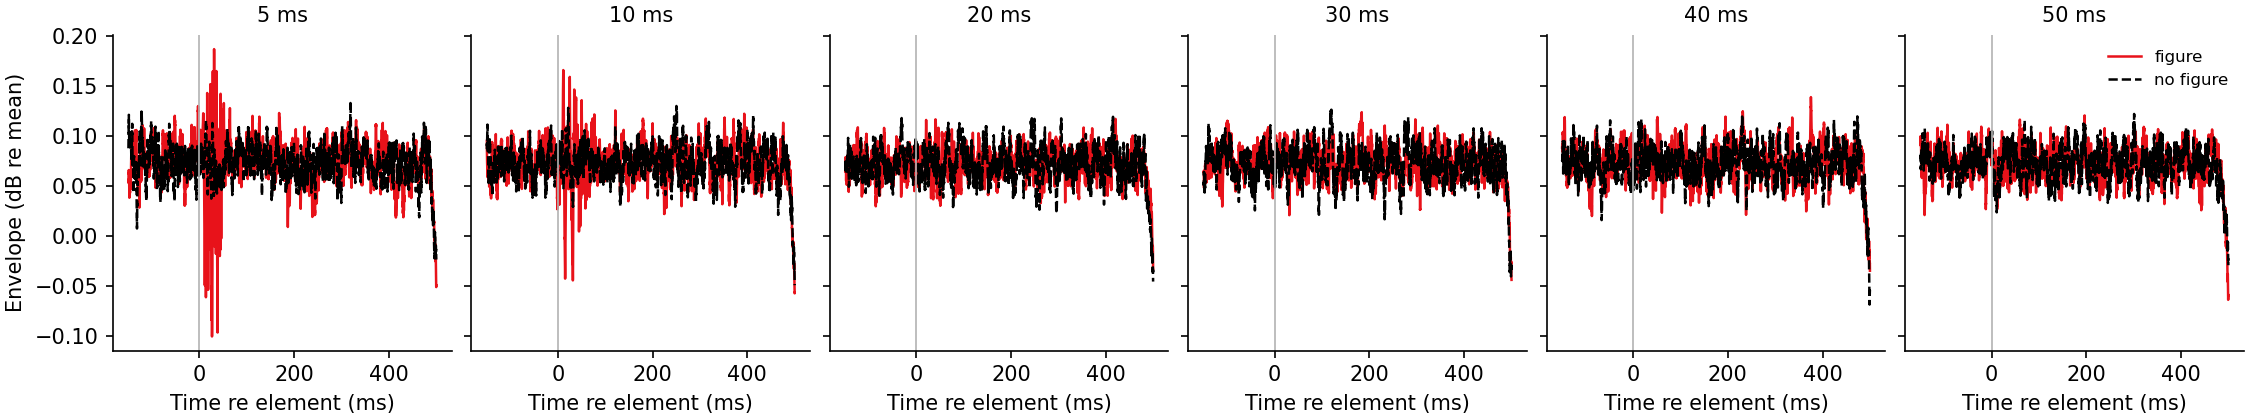
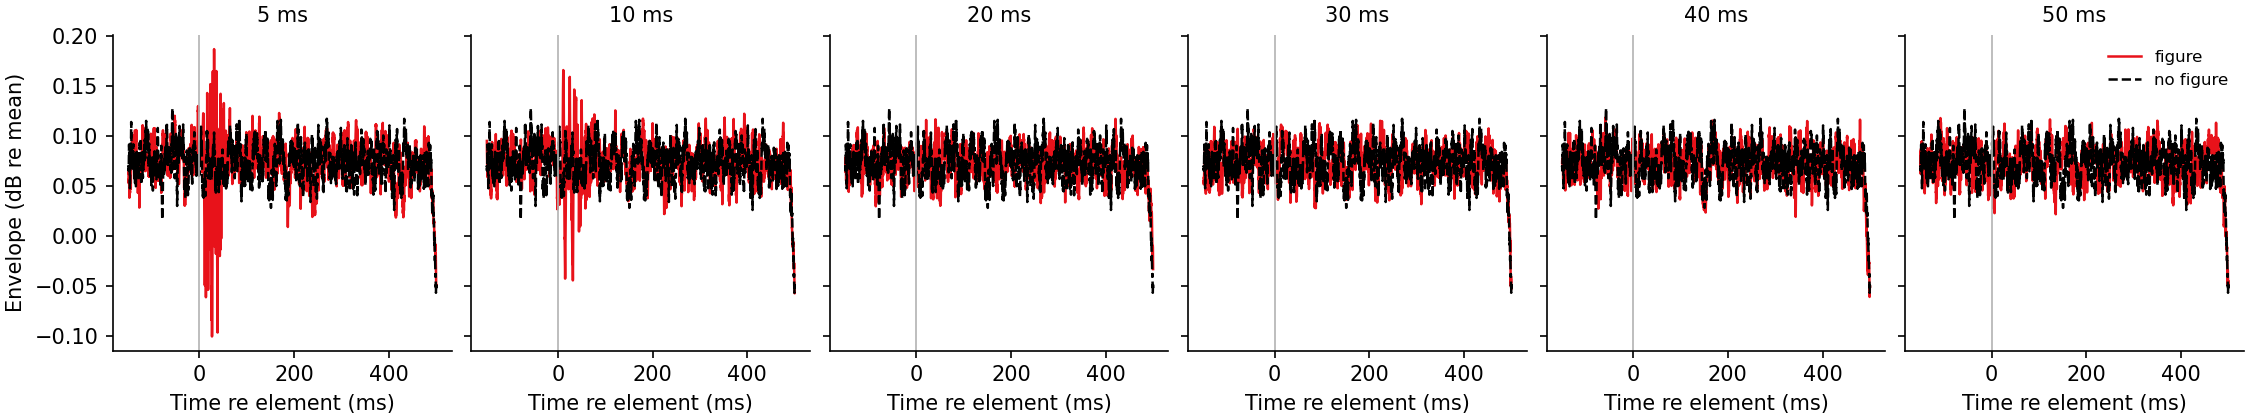
audios/sfg_task: compare the figure against the same channels, ungrouped
The figure-absent interval was a plain cloud, and against a plain cloud an
observer who ignores time entirely scores d' 8 to 11, which is 100% in 2IFC
at every delay.  Nothing about scheduling fixes that: one interval has seven
elevated channels and the other does not, and that is what a figure is.

So the other interval now carries the same seven channels, coming back at
the same rate with the same regularity, each on its own schedule.  Both
sides then match on channels, tone count (1194 either way at every delay),
tones sounding (exactly six), level, long-term spectrum and contrast (4.13
against 4.11), and differ in whether the seven fire together.  The
spectrum-only observer falls from d' 8-11 to 0.01-0.08, which is 50 to 52%.
Chance.

Three things had to be right.  The figure substitutes background tones
rather than adding to them, so the count does not move.  The scattered
channels are nudged off each other's slots, so the control never forms a
momentary chord and never needs a levelling gain the coherent side does not.
And a coherent element that would collide with an overlapping neighbour
slides whole, pattern intact, rather than doubling a slot.  With all three
the levelling gain reads 0.00 dB in both intervals at every delay: the
leveller that caused so much trouble is now inert.

The instructions change with the task.  Both intervals have pitches that
come back, so the question is which one had them moving together.
[…]

Changed region(s): [[0.0311, 0.2786, 0.9956, 0.5262]]

diff --git a/audios/sfg_task/stimulus.py b/audios/sfg_task/stimulus.py
@@ -158,7 +158,7 @@ def scatter_onsets(d: Design, rng: np.random.Generator) -> np.ndarray:
     mean = room / (n - 1)
     j = d.jitter_ms / d.hop_ms
     sep = d.k + d.guard
-    out = []
+    out, taken = [], set()
     for _ in range(d.coherence):
         for _ in range(200):
             gaps = mean + rng.uniform(-j, j, n - 1)
@@ -169,13 +169,24 @@ def scatter_onsets(d: Design, rng: np.random.Generator) -> np.ndarray:
                 break
         else:
             raise ValueError("scatter control does not fit in the interval")
-        out.append(d.lead + np.concatenate(([0], np.cumsum(g))))
+        # Two of these channels landing in the same slot would be a chord,
+        # and a momentary chord is the thing this control exists to be
+        # without.  It also makes the tone count jump, which the coherent
+        # side does not do.  Nudge each onset to the nearest free slot.
+        ts = d.lead + np.concatenate(([0], np.cumsum(g)))
+        for i, t in enumerate(ts):
+            while int(t) in taken:
+                t += 1
+            ts[i] = t
+            taken.add(int(t))
+        out.append(ts)
     return np.array(out)
 
 
 def schedule(d: Design, pl: dict, rng: np.random.Generator, *,
              step_ms: float, ons: np.ndarray, lag: np.ndarray,
-             coherent: bool, variant: str) -> dict:
+             coherent: bool, variant: str,
+             fig_ch: np.ndarray | None = None) -> dict:
     """Every tone in the interval: channel, slot, level, figure or not."""
     busy = np.zeros((pl["n"], d.n_slots + d.k + d.guard), bool)
     own = np.zeros_like(busy)          # the channel itself, without its band
@@ -198,7 +209,7 @@ def schedule(d: Design, pl: dict, rng: np.random.Generator, *,
         # tones over channels drawn afresh, so the two differ in whether
         # seven channels recur at all -- which is what makes this the
         # control for how much of the task is spectral.
-        combs = [comb(d, pl, rng)]
+        combs = [comb(d, pl, rng) if fig_ch is None else np.asarray(fig_ch)]
         for i, ts in enumerate(scatter_onsets(d, rng)):
             for s in ts:
                 c = int(combs[0][i]) if coherent else \
@@ -208,21 +219,31 @@ def schedule(d: Design, pl: dict, rng: np.random.Generator, *,
         # Overlapping elements can collide: two of them can want the same
         # channel at the same moment, or two channels inside one critical
         # band.  Where there is something to redraw, redraw it.
-        combs, clash = [], 0
+        combs, clash, used = [], 0, set()
         for i, s0 in enumerate(ons):
             fixed = coherent and variant != "redraw"
             for attempt in range(120):
                 ch = (combs[0] if coherent and combs
+                      else np.asarray(fig_ch) if coherent and fig_ch is not None
                       else comb(d, pl, rng, avoid=None if coherent else combs))
                 lg = redrawn(d, step_ms, rng) if variant == "redraw" else lag
-                cand = [(int(c), int(s0 + l)) for c, l in zip(ch, lg)
-                        if 0 <= s0 + l < d.n_slots]
+                # Overlapping elements can want the same slot.  Slide the
+                # whole element, which leaves its pattern intact, rather than
+                # letting two tones start together: that would put an extra
+                # tone in the interval and cost a decibel of levelling, and
+                # only on the coherent side.
+                off = 0
+                while off < 40 and any(int(s0 + l + off) in used for l in lg):
+                    off += 1
+                cand = [(int(c), int(s0 + l + off)) for c, l in zip(ch, lg)
+                        if 0 <= s0 + l + off < d.n_slots]
                 if fixed or not any(busy[c, s:s + d.k].any() for c, s in cand):
                     break
             else:
                 clash += 1
             combs.append(ch)
             for c, s in cand:
+                used.add(s)
                 put(c, s, i)
     fig_ch = combs[0]
 
@@ -356,11 +377,11 @@ def render(d: Design, pl: dict, sch: dict, rng: np.random.Generator,
 
 
 def interval(d: Design, pl: dict, *, step_ms: float, ons: np.ndarray,
-             lag: np.ndarray, coherent: bool, variant: str,
-             seed: int, rove: bool = True) -> dict:
+             lag: np.ndarray, coherent: bool, variant: str, seed: int,
+             rove: bool = True, fig_ch: np.ndarray | None = None) -> dict:
     rng = np.random.default_rng(seed)
     sch = schedule(d, pl, rng, step_ms=step_ms, ons=ons, lag=lag,
-                   coherent=coherent, variant=variant)
+                   coherent=coherent, variant=variant, fig_ch=fig_ch)
     sch["y"], sch["y_fig"] = render(d, pl, sch, rng,
                                     d.rove_db if rove else 0.0)
     return sch
@@ -368,15 +389,29 @@ def interval(d: Design, pl: dict, *, step_ms: float, ons: np.ndarray,
 
 def trial(d: Design, pl: dict, *, step_ms: float, seed: int,
           variant: str = "rise", rove: bool = True) -> tuple[dict, dict]:
-    """The figure-present and figure-absent intervals of one trial.
+    """The two intervals of one trial.  Both are built from the same element
+    onsets and the same delays, drawn once here.
 
-    Both are built from the same element onsets and the same delays, drawn
-    once here, so the only difference between them is coherence.
+    What the second interval is depends on `absent`:
+
+    'scattered'  the SAME seven channels, coming back at the same rate and
+                 with the same regularity, but each on its own schedule.
+                 Identical in long-term spectrum, tone count, level and
+                 envelope; the two differ in whether the seven channels fire
+                 *together*, and in nothing else that has been found.
+    'cloud'      the classic figure-absent interval, whose seven channels are
+                 redrawn for every element.  Comparable with the published
+                 task, and solvable at 100% by an observer who ignores time.
     """
     rng = np.random.default_rng(seed)
     ons = element_onsets(d, rng)
     lag = delays(d, step_ms, rng, variant)
-    kw = dict(step_ms=step_ms, ons=ons, lag=lag, variant=variant, rove=rove)
-    s1, s2 = rng.integers(0, 2 ** 31, 2)
-    return (interval(d, pl, coherent=True, seed=int(s1), **kw),
-            interval(d, pl, coherent=False, seed=int(s2), **kw))
+    kw = dict(step_ms=step_ms, ons=ons, lag=lag, rove=rove)
+    s1, s2 = (int(x) for x in rng.integers(0, 2 ** 31, 2))
+    a = interval(d, pl, coherent=True, variant=variant, seed=s1, **kw)
+    if d.absent == "scattered":
+        b = interval(d, pl, coherent=True, variant="scatter", seed=s2,
+                     fig_ch=a["fig_ch"], **kw)
+    else:
+        b = interval(d, pl, coherent=False, variant=variant, seed=s2, **kw)
+    return a, b

diff --git a/audios/sfg_task/run.py b/audios/sfg_task/run.py
@@ -79,13 +79,35 @@ def calibrate(d: Design, seconds: float = 5.0, device=None) -> None:
     play(y.astype(np.float32), d.fs, device)
 
 
-PROMPT = {"2ifc": ("  which interval had the repeating figure?   "
-                   f"{BOLD}1{OFF} or {BOLD}2{OFF}", "12"),
-          "yesno": ("  was a repeating figure there?   "
-                    f"{BOLD}y{OFF} or {BOLD}n{OFF}", "yn")}
+def prompt_for(d) -> tuple[str, str]:
+    if d.task == "yesno":
+        return ("  was a group of tones moving together?   "
+                f"{BOLD}y{OFF} or {BOLD}n{OFF}", "yn")
+    if d.absent == "scattered":
+        return ("  which interval had them moving together?   "
+                f"{BOLD}1{OFF} or {BOLD}2{OFF}", "12")
+    return ("  which interval had the repeating figure?   "
+            f"{BOLD}1{OFF} or {BOLD}2{OFF}", "12")
 
-BRIEF = """
-{b}  A cloud of short tones.{o}  Sometimes a small group of them keeps
+
+BRIEF = {
+    "scattered": """
+{b}  A cloud of short tones.{o}  In {b}both{o} intervals a few of the same
+  pitches keep coming back. The difference is when.
+
+  In one interval they come back {b}together{o}, so they stand out as one
+  thing you can follow. In the other the same pitches come back just as
+  often, but each on its own, and they stay part of the cloud.
+
+  They may arrive all at once, or one pitch after another like a run up a
+  keyboard. Either way, listen for {b}tones that move together{o}.
+
+{ask}.   Guess if you are not sure. You are meant to be unsure.
+  Press {b}q{o} to stop. Everything answered so far is saved.
+
+  Headphones on, both ears. Press any key to start.""",
+    "cloud": """
+{b}  A cloud of short tones.{o}  In one interval a small group of them keeps
   coming back at the same pitches, over and over. That is the figure.
   It may arrive all at once, or one pitch after another like a run up
   a keyboard. Either way, listen for {b}the pitches that repeat{o}.
@@ -93,7 +115,7 @@ BRIEF = """
 {ask}.   Guess if you are not sure. You are meant to be unsure.
   Press {b}q{o} to stop. Everything answered so far is saved.
 
-  Headphones on, both ears. Press any key to start."""
+  Headphones on, both ears. Press any key to start."""}
 
 
 class Log:
@@ -172,11 +194,11 @@ def run(d: Design, subject: str | None, root: Path, *, device=None,
     if new:
         w.writeheader()
 
-    ask, keys = PROMPT[d.task]
+    ask, keys = prompt_for(d)
     ctx = dict(d=d, ask=ask, keys=keys, n_int=2 if d.task == "2ifc" else 1,
                device=device, w=w, fh=fh, log=log, session=n, task=task,
                t0=time.perf_counter())
-    print(BRIEF.format(b=BOLD, o=OFF, ask=ask.strip()))
+    print(BRIEF[d.absent].format(b=BOLD, o=OFF, ask=ask.strip()))
 
     with keyboard() as fd:
         ctx["fd"] = fd

diff --git a/audios/sfg_task/config.py b/audios/sfg_task/config.py
@@ -107,6 +107,12 @@ class Design:
     edge_ms: float = 50.0        # on/off ramp of the whole interval
 
     # --- the task -----------------------------------------------------
+    # What the listener is comparing the figure against.  'scattered' is the
+    # same seven channels ungrouped, which is the only version in which an
+    # observer who ignores time cannot do the task; 'cloud' is the classic
+    # figure-absent interval, which such an observer solves at 100%.
+    absent: str = "scattered"    # 'scattered' | 'cloud'
+
     task: str = "2ifc"           # '2ifc' (criterion-free) | 'yesno'
     trials_per_step: int = 20    # doubled automatically for yes/no, which
                                  # needs figure-absent trials of its own
@@ -248,6 +254,8 @@ class Design:
                 f"Raise bg_sounding to {int(np.ceil(need * self.k))} (which "
                 f"costs contrast), raise hop_ms, or drop that delay from "
                 f"steps_ms")
+        if self.absent not in ("scattered", "cloud"):
+            raise ValueError("absent must be 'scattered' or 'cloud'")
         if self.task not in ("2ifc", "yesno"):
             raise ValueError("task must be '2ifc' or 'yesno'")
 

diff --git a/audios/sfg_task/__main__.py b/audios/sfg_task/__main__.py
@@ -279,6 +279,8 @@ def main(argv=None) -> int:
 
     def common(q):
         q.add_argument("--task", choices=("2ifc", "yesno"))
+        q.add_argument("--absent", choices=("scattered", "cloud"),
+                       help="what the figure is compared against")
         q.add_argument("--steps-ms", type=float, nargs="+")
         q.add_argument("--coherence", type=int)
         q.add_argument("--bg-sounding", type=int)

diff --git a/audios/sfg_task/README.md b/audios/sfg_task/README.md
@@ -292,78 +292,36 @@ sessions halve that. Decide which you need before running twenty people once.
   alternative is to cap the sweep at 25 ms, which is what a non-overlapping 5 Hz figure
   allows. `perm` and `scatter` are what bound the alternative explanations, and this is
   the first limitation a referee will find.
-* **An observer who ignores time entirely can do this task perfectly.** This is the
-  most serious thing on the page. Take the long-term spectrum of each interval, measure
-  how far its loudest channels stand above their neighbours, and pick the interval with
-  the taller peaks: measured over many trials, that gives **d' between 12 and 18**,
-  which is 100% correct in 2IFC, at every delay. The figure's channels carry 5.3 tones
-  a second against the background's 0.85, and six seconds is long enough to read that
-  off the spectrum without ever hearing a figure.
+* **The other interval is not a plain cloud, and it cannot be.** Take the long-term
+  spectrum of each interval, measure how far its loudest channels stand above their
+  neighbours, and pick the interval with the taller peaks. Against a plain cloud that
+  gives **d' 8 to 11, which is 100% correct in 2IFC at every delay**, without ever
+  hearing a figure. Six seconds is long enough to read seven elevated channels off the
+  spectrum, and no scheduling removes it: one interval has seven elevated channels and
+  the other does not, and that is what "figure" means.
 
-  It is not new here. The same measurement on the earlier 2 Hz, eight-tone-cloud
-  version gives d' 9.4, also 100%. A figure defined by channel recurrence always has a
-  spectral signature as well as a temporal one, and they cannot be pulled apart inside
-  a single interval.
+  So the other interval carries **the same seven channels**, coming back at the same
+  rate and with the same regularity, each on its own schedule. Both intervals then have
+  the same channels, the same tone count, the same six tones sounding at every instant,
+  the same level, the same long-term spectrum and the same contrast, and differ in
+  whether the seven fire *together*. Measured, the observer who ignores time falls to
+  **d' 0.01 to 0.08, which is 50 to 52% correct**: chance.
 
-  What it means in practice: **the task does not by itself prove that anyone used
-  temporal coherence.** Two things bound it. The first is empirical: the only human who
-  has run it sat at chance while this cue was fully available, so people do not
-  spontaneously read it off. The second is the `scatter` control, which puts the
-  figure's channels in the present interval at the figure's rate but never groups them,
-  so it has the spectral cue and no temporal coherence at all. Performance on `scatter`
-  is the direct measure of how much of the sweep is spectral, and it has to be run.
+  Three things had to be right for that. The figure substitutes background tones rather
+  than adding to them, so the tone count does not move. The scattered channels are
+  nudged off each other's slots, so the control never forms a momentary chord and never
+  needs a levelling gain the coherent side does not. And a coherent element that would
+  collide with its overlapping neighbour slides whole, pattern intact, rather than
+  doubling a slot. With all three the levelling gain is **0.00 dB in both intervals at
+  every delay**, and the leveller is inert.
 
-  Trial-by-trial feedback interacts with this: it does not bias 2IFC, but it does teach
-  whatever cue works. Consider turning it off after practice.
+  Trial-by-trial feedback matters here: it does not bias 2IFC, but it teaches whatever
+  cue works, so it is only safe once the only cue that works is the intended one.
 
-  **What the repair does and does not reach.** The figure now *substitutes*
-  background tones rather than being added on top of them: the same number of tones
-  starts in every slot whatever the figure does, so the count is constant, no levelling
-  gain is needed, and the levelling excursion falls from 5.0 dB to between 0.00 and
-  0.54 dB. That removes the interaction between levelling and grouping entirely. The
-  price is the 0 ms chord: seven simultaneous tones would need seven starts in one slot,
-  1400 a second, and no contrast left. The sweep runs from 5 ms, which is 30 ms from the
-  figure's first tone to its last.
-
-  It does not touch the present-against-absent cue, which stays at d' 8-9 (it was 17-19 at 50 ms tones). Nothing
-  will: one interval has seven elevated channels and the other does not, and that is
-  what "figure" means.
-
-  For coherent against scattered it helps a great deal, from a d' that reversed sign
-  across the sweep (-6.3 at 0 ms, +2.2 at 50) to a small monotone one:
-
-  | delay | 5 | 10 | 20 | 30 | 40 | 50 |
-  |---|---|---|---|---|---|---|
-  | spectrum-only d' | 0.45 | 0.68 | 0.60 | 0.61 | 0.55 | 0.56 |
-  | spectrum-only 2IFC | 63% | 69% | 66% | 67% | 65% | 65% |
-
-  Read that row as a floor under the psychometric function. At 30 ms tones it is flat
-  across the sweep, which matters: a floor that trended with delay would mimic the
-  effect being looked for, and at 50 ms tones it did (0.45 to 0.25). A behavioural curve
-  is evidence of temporal coherence to the extent that it drops below and away from this
-  one. Plot them together.
-
-  The older repair does not work either. Making the figure-absent interval carry the same
-  seven recurring channels, ungrouped, takes the ideal observer from d' 12-18 down to
-  about 2, but not to zero, and the residue is instructive: **levelling the power and
-  equating per-channel energy are incompatible.** The compensating gain is lowest
-  exactly when the figure's tones are bunched, so at 0 ms the coherent interval delivers
-  2.2 dB *less* energy in the figure's channels than the scattered one, and at 50 ms
-  slightly more. Flatten the envelope and the per-channel spectrum moves with the
-  manipulation; equate the spectrum and the envelope pulses. There appears to be no
-  setting of this stimulus in which an ideal observer is at chance.
-* Contrast is 2.5x, against roughly 10x for chord-grid figure-ground. A 350 ms element
-  cannot repeat at 20 Hz, and a slow figure has a low contrast. Detection at 0 ms should
-  be good rather than perfect, which is what you want, or the sweep starts at ceiling.
-* PsychoPy is not used. On this Python it resolves to 2023.1.3 and builds from source,
-  which is not a thing to hand a booth machine, and its value here would be a dialog
-  box. All the timing that matters is baked into the pre-rendered stimuli, and playback
-  goes through sounddevice.
-* Levelling the power jitters the tones. The compensating gain wanders over about 7 dB,
-  1.6 dB SD, so each tone sits within a decibel or two of its equal-loudness level
-  rather than exactly on it. That is the price of a flat envelope, it is matched between
-  the intervals, and the equal-loudness shape survives it: measured by octave, the
-  realised levels still trace the ISO 226 curve.
+  `--absent cloud` restores the classic comparison, for continuity with the published
+  task. Run it once as a control precisely because it is the confounded one: if a
+  listener is much better on it than on the matched version, that difference is what
+  the spectral cue is worth to a human.
 
 ## Usage
 
